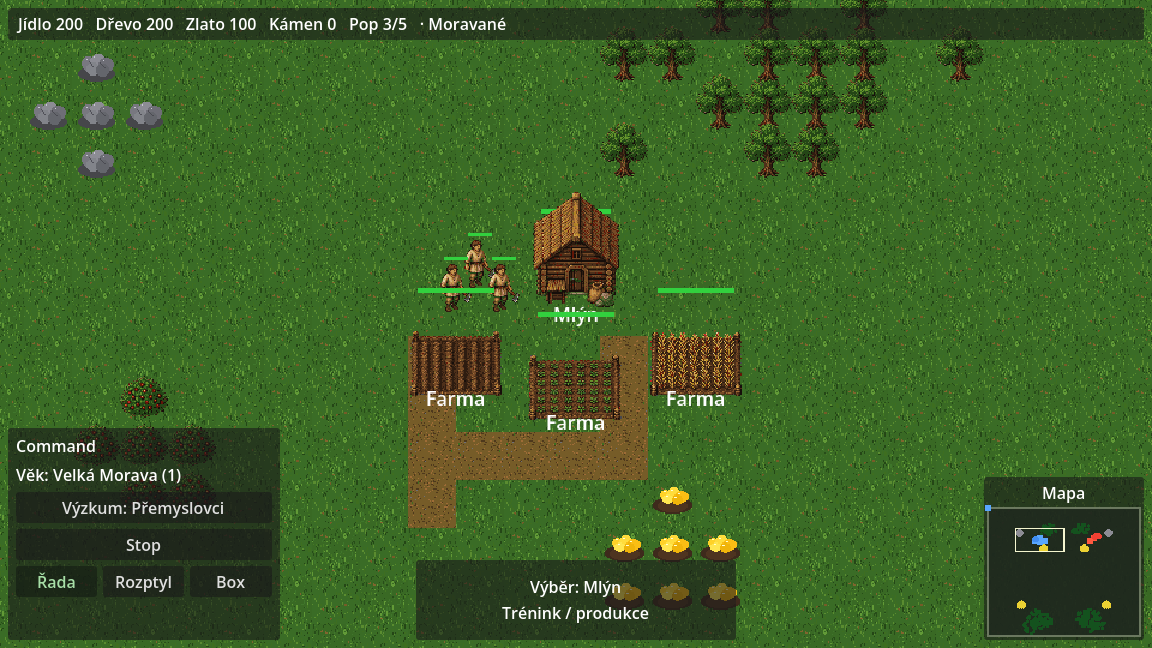
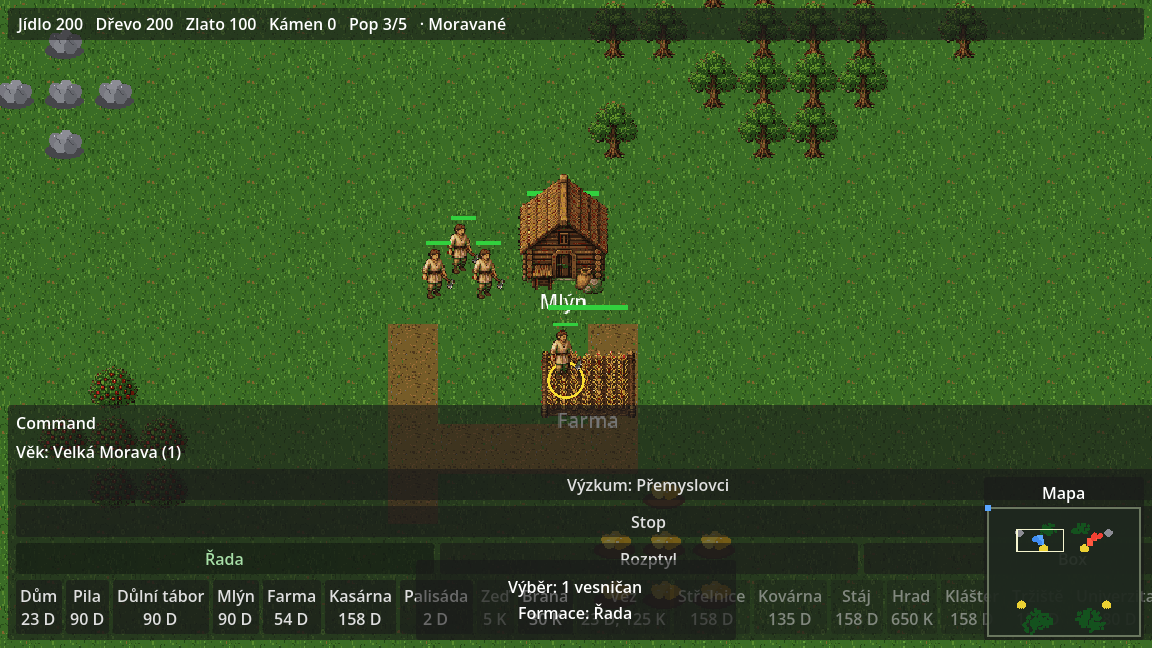
T-19 redo: farm gather loop (0.33/s food, Mill/TC drop-off)
Farms stockpile 175 food, max 1 farmer; states sown→ripe→empty.
Villager gather/drop-off only (no Unit.gd visual edits). Reseed deferred.

diff --git a/docs/DESIGN.md b/docs/DESIGN.md
@@ -118,6 +118,7 @@ Resources → Stavění → Produkce jednotek → Combat → Postup věků
 
 Měřítko: 1 dlaždice = 40 px. Vesničan nese 10 jednotek suroviny. Start: 200 J, 200 D, 100 Z, 0 K.
 Těžba za sekundu na vesničana: dřevo 0.40, jídlo z keřů 0.30, farma 0.33, zlato/kámen = dřevo × 0.9 (0.36).
+Farma (T-19): po dostavbě stav `sown` se zásobou 175 jídla; sklizeň → `ripe`; po vyčerpání `empty` a zemědělec přestane. **Reseed (znovuosetí) — deferred** (zatím bez auto-obnovy).
 
 | Jednotka | Cena | Čas | HP | Útok | Dosah | Rychlost | Zbroj (M/P) |
 |----------|------|-----|----|------|-------|----------|-------------|
@@ -141,6 +142,7 @@ Těžba za sekundu na vesničana: dřevo 0.40, jídlo z keřů 0.30, farma 0.33,
 | Pila | 100 D | 25 s | 600 | 80×80, drop-off dřevo |
 | Důlní tábor | 100 D | 25 s | 600 | 80×80, drop-off zlato + kámen |
 | Mlýn | 100 D | 35 s | 1000 | drop-off jídlo, farmy |
+| Farma *(T-19)* | 60 D | 15 s | 480 | 80×80, vyžaduje Mlýn; jídlo 0.33/s; zásoba 175; max 1 zemědělec; stavy sown→ripe→empty |
 | Kasárna | 175 D | 50 s | 1200 | Zbrojnoš, Kopiník |
 | Střelnice | 175 D | 50 s | 1200 | Lučištník |
 | Kovárna *(Schváleno 2026-11-22)* | 150 D | 40 s | 1800 | věk 2 gate; techy viz výše |

diff --git a/art_import/README_sprites_farm.md b/art_import/README_sprites_farm.md
@@ -8,7 +8,7 @@ No procedurally drawn pixels.
 ## Notes for integration
 
 - Canvases are bottom-centred: 80×53–54 (footprint 80×80). Feet/anchor via `Building._anchor_sprite`.
-- Default place / ghost texture: `farm.png` (= ripe).
+- Ghost texture: `farm.png` (= ripe). New complete farm uses `farm_sown.png` until farming → ripe → empty.
 - Camera: front 3/4 / almost straight-on (same as mill / siege), not isometric.
 - Do NOT draw sprites procedurally. New art = generate on magenta + this pipeline.
 
